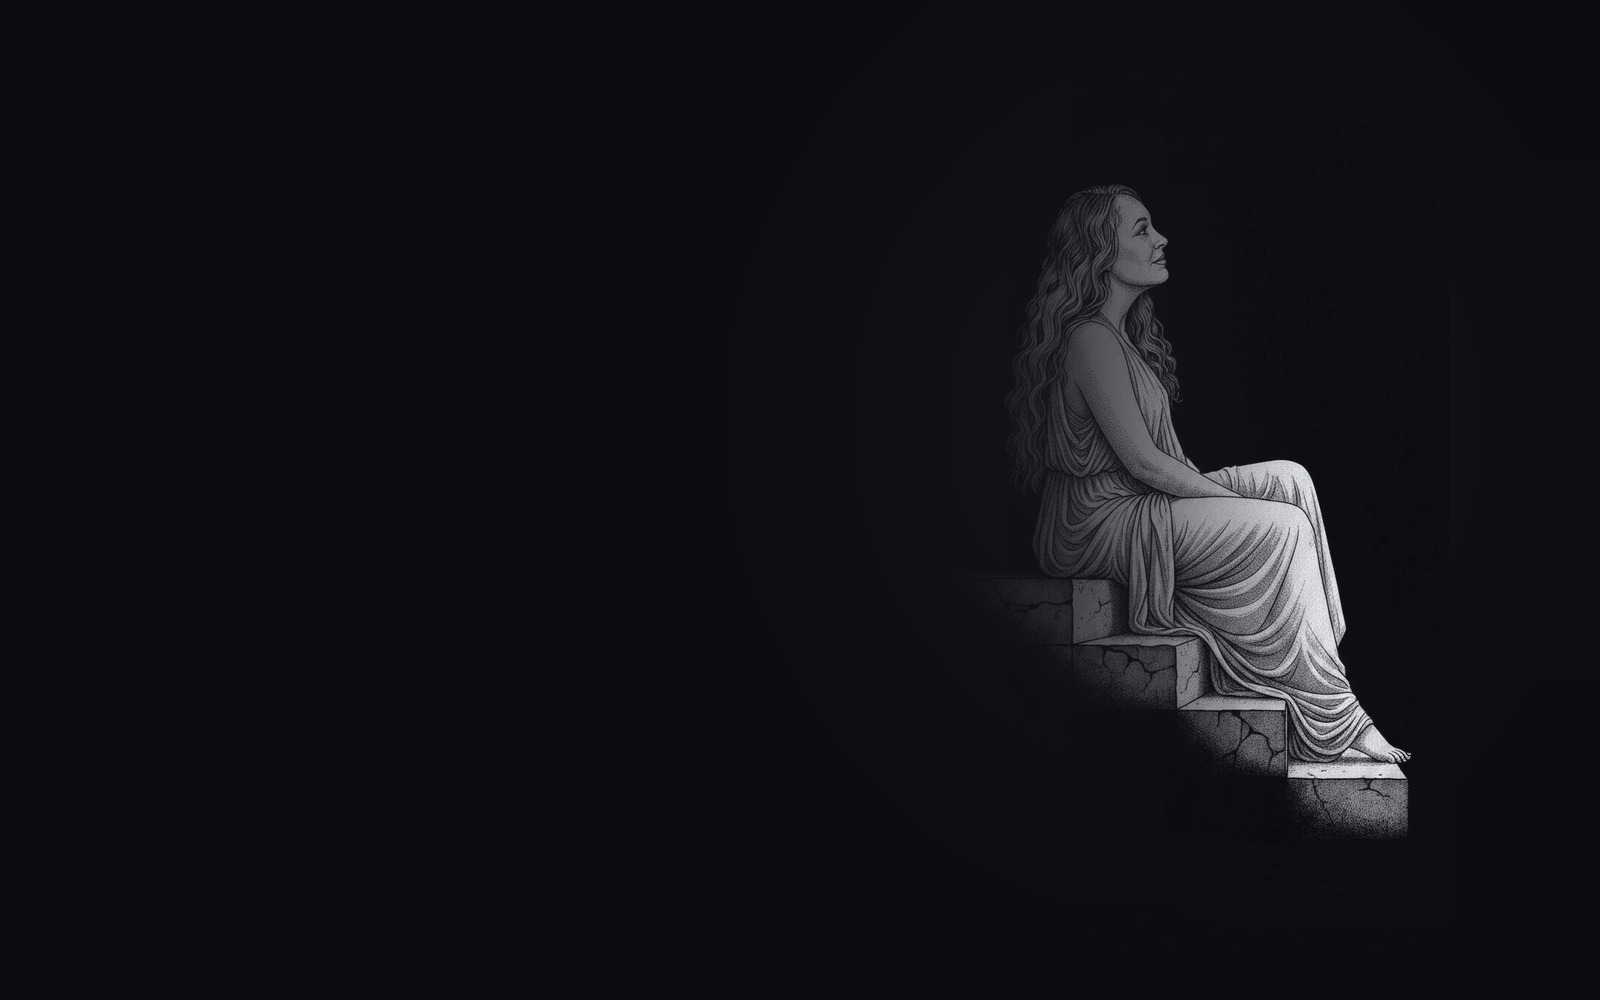
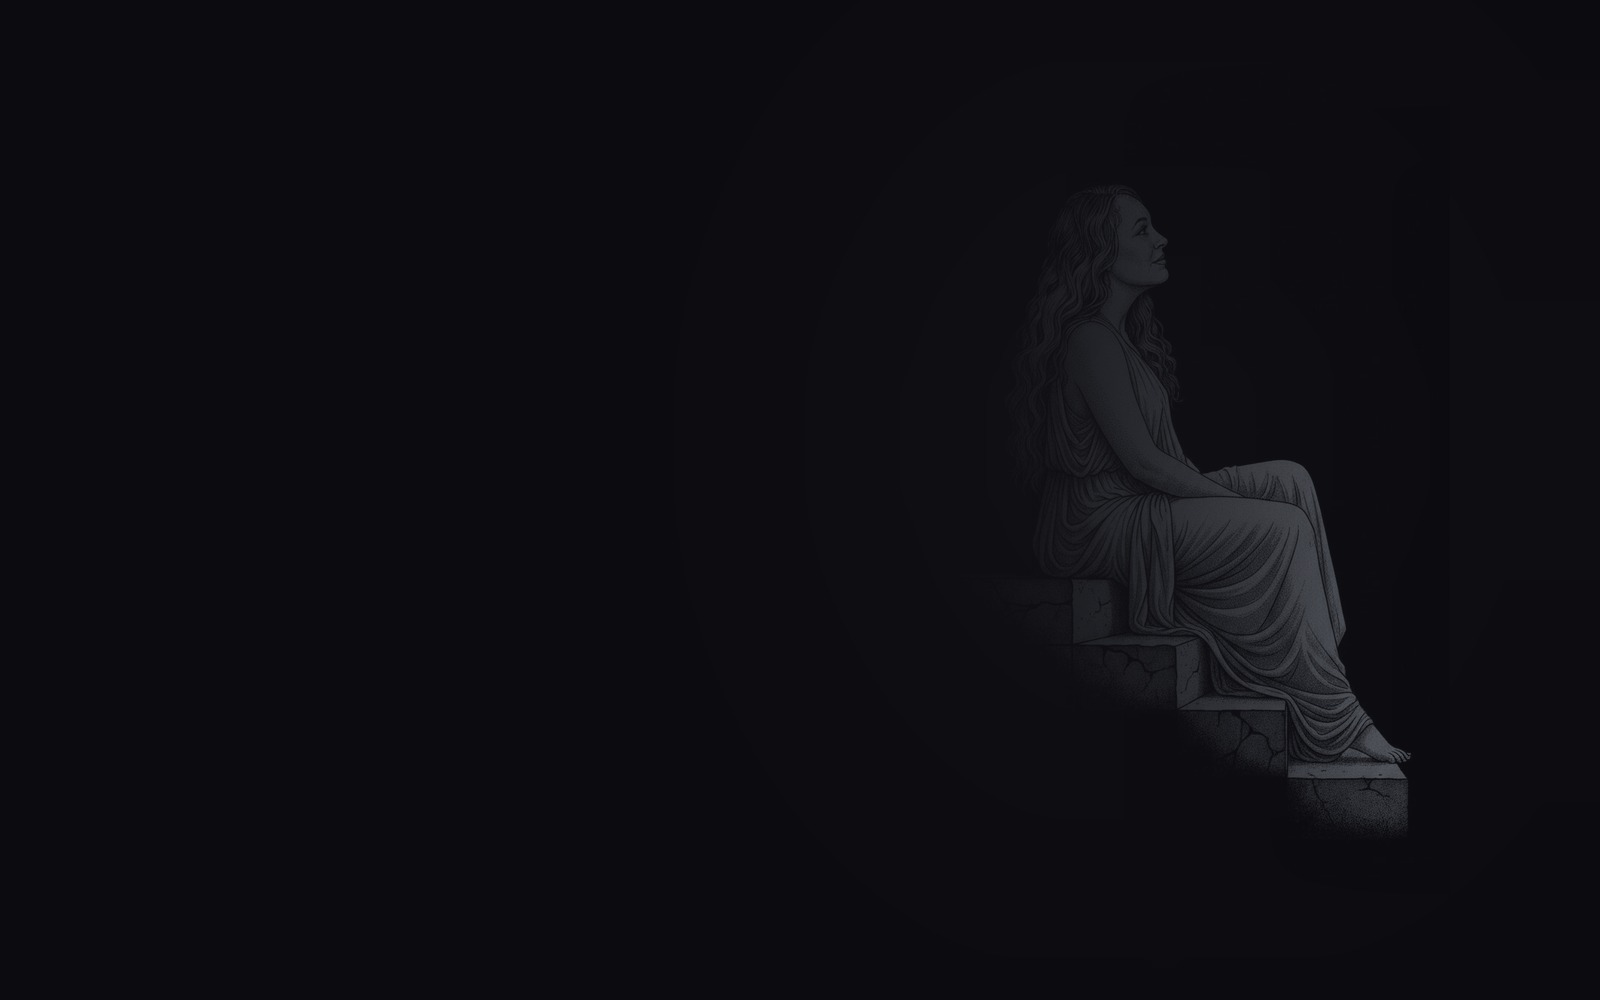
web: the artwork sinks into the page instead of sitting on it
The figure read as a cut-out: peak ink 234 on a page that is 12, and a mask
that ended abruptly enough to feel pasted.

- ink peak drops from #e9eaee to #9fa6b0 and the drawing is then veiled 34%
  back toward the page colour, so it is present but quiet
- the left feather widens from 430 to 620 and top/bottom from 120 to 175, with
  a 30px blur, so there is no line where the picture starts
- the bloom drops from 24 levels to 13 and blurs wider, so she sits in a dim
  halo rather than a spotlight
- measured: p99 156 -> 54, p100 234 -> 92, corners still exactly the page colour
- 1.0.7, which also rolls the asset fingerprint so the old bytes cannot be
  served from cache

Changed region(s): [[0.6562, 0.186, 0.9062, 0.837]]

diff --git a/crates/eris-host/tests/phase5.rs b/crates/eris-host/tests/phase5.rs
@@ -16,7 +16,7 @@ use eris_host::db::{Db, TABLES};
 use eris_host::error::REQUEST_ID_HEADER;
 use tower::ServiceExt;
 
-const HEALTHZ_EXACT: &str = r#"{"status":"ok","version":"1.0.6","state":"setup","db":"ok"}"#;
+const HEALTHZ_EXACT: &str = r#"{"status":"ok","version":"1.0.7","state":"setup","db":"ok"}"#;
 
 /// Send one request through the router and return status, body text and headers.
 async fn send(
@@ -216,8 +216,8 @@ async fn healthz_returns_exactly_the_documented_body() {
     let parsed: serde_json::Value = serde_json::from_str(&body).expect("healthz is json");
     assert_eq!(parsed["state"], "setup");
     assert_eq!(parsed["db"], "ok");
-    assert_eq!(parsed["version"], "1.0.6");
-    assert_eq!(VERSION, "1.0.6");
+    assert_eq!(parsed["version"], "1.0.7");
+    assert_eq!(VERSION, "1.0.7");
 }
 
 #[tokio::test]

diff --git a/crates/eris-host/tests/phase7.rs b/crates/eris-host/tests/phase7.rs
@@ -775,7 +775,7 @@ async fn every_get_route_answers_with_a_body() {
 #[test]
 fn the_documented_address_and_version_are_unchanged() {
     assert_eq!(ADMIN_ADDR, "127.0.0.1:7340");
-    assert_eq!(VERSION, "1.0.6");
+    assert_eq!(VERSION, "1.0.7");
     assert!(ALL_GET_ROUTES.contains(&ROUTE_SETUP_STATE));
     assert!(POST_ROUTES.contains(&"/setup/finish"));
 }

diff --git a/crates/eris-host/src/admin.rs b/crates/eris-host/src/admin.rs
@@ -700,7 +700,7 @@ mod tests {
 
     #[test]
     fn the_version_is_the_workspace_version() {
-        assert_eq!(VERSION, "1.0.6");
+        assert_eq!(VERSION, "1.0.7");
     }
 
     #[test]
